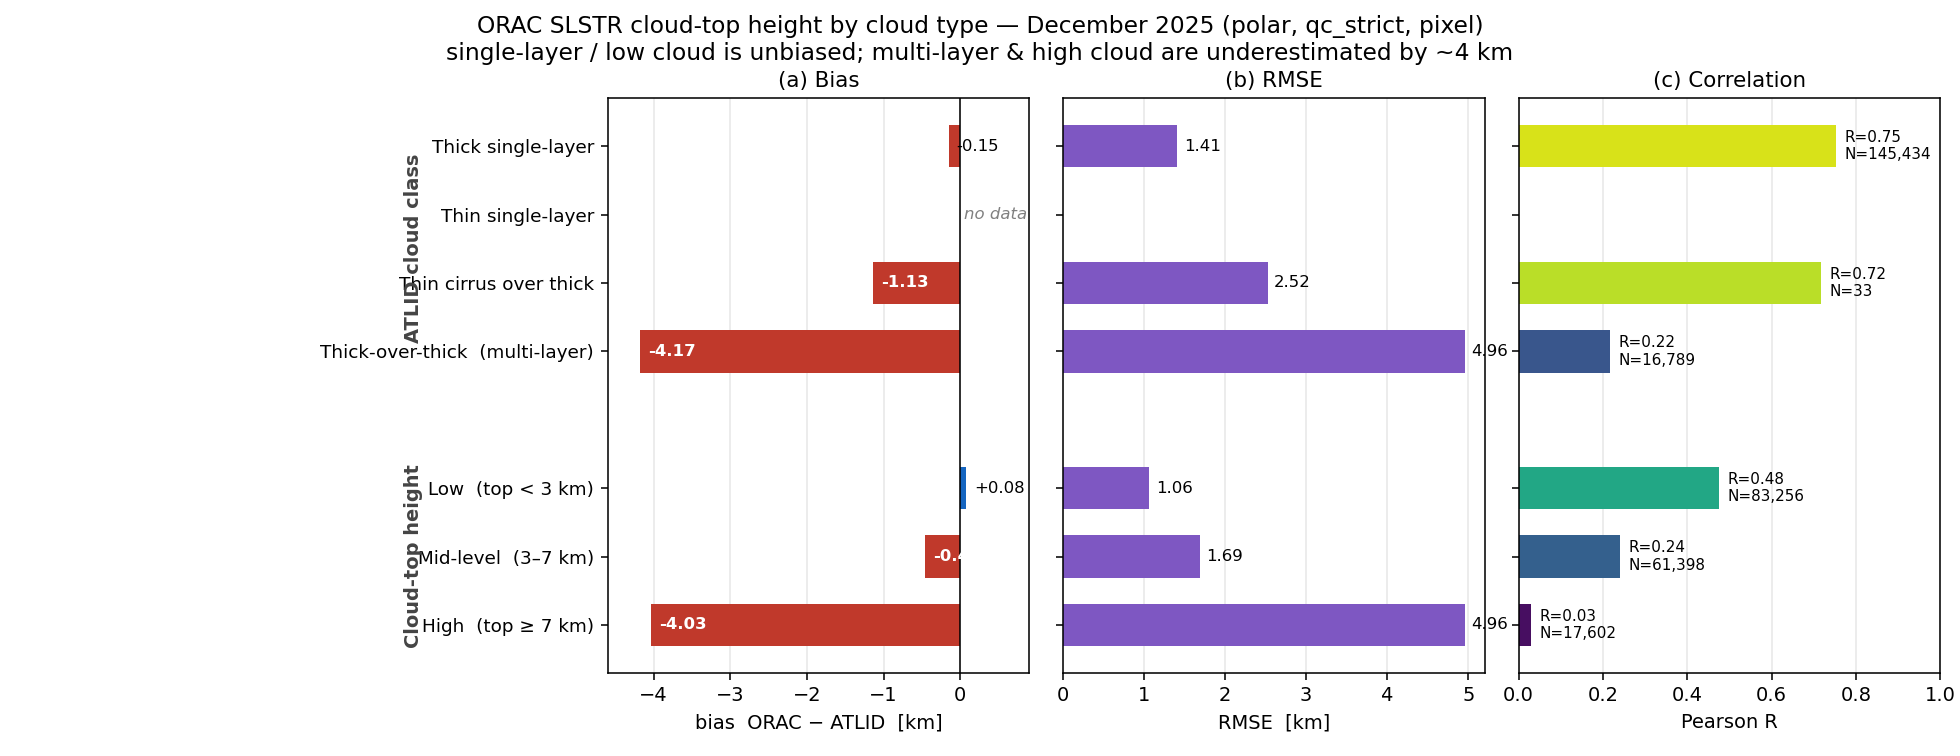
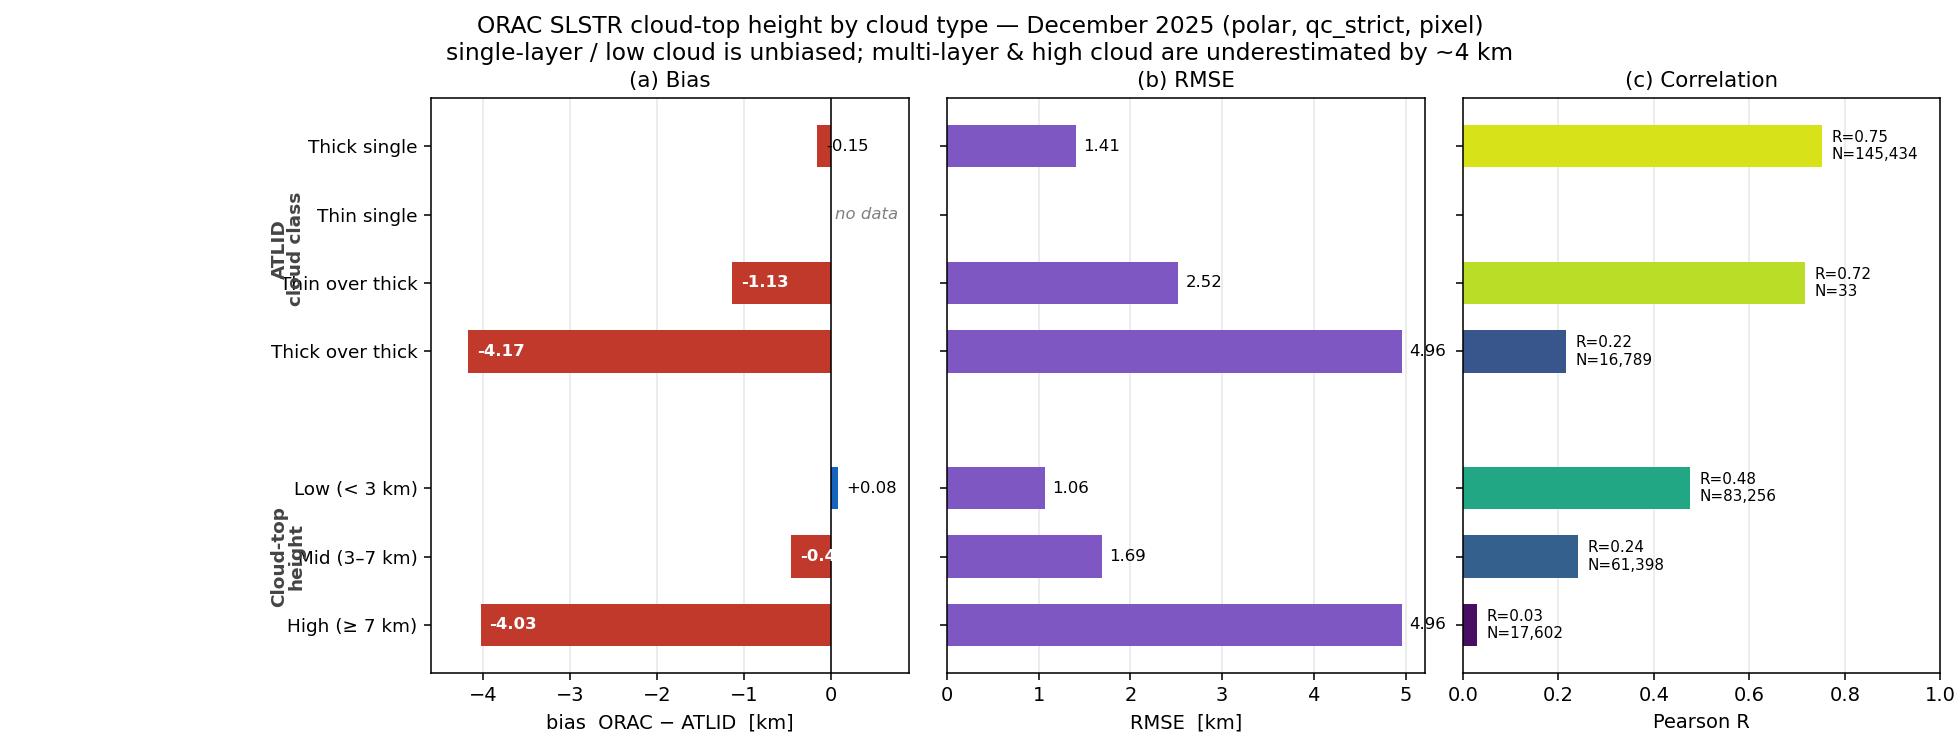
slstr(cth): fix cloud-type figure label overlap + explain high-cloud bias
- Shorten y-tick labels and use two-line group labels so the group names no
  longer overlap the cloud-type ticks.
- Add high-cloud explanation to the report: the >=7 km bin is ~50/50 multi-layer
  (lower-deck effect) and high thick single-layer (IR emission level below the
  lidar top + near-isothermal tropopause amplification).

diff --git a/scripts/slstr_cth_cloudtype_figure.py b/scripts/slstr_cth_cloudtype_figure.py
@@ -23,13 +23,13 @@ OUT = Path("figures/slstr_cth_2025-12")
 
 # (stratum key, full name, group). Order is bottom→top on the plot.
 ROWS = [
-    ("cth_high", "High  (top ≥ 7 km)",              "Cloud-top height"),
-    ("cth_mid",  "Mid-level  (3–7 km)",             "Cloud-top height"),
-    ("cth_low",  "Low  (top < 3 km)",               "Cloud-top height"),
-    ("class_thick_over_thick", "Thick-over-thick  (multi-layer)", "ATLID cloud class"),
-    ("class_thin_over_thick",  "Thin cirrus over thick",          "ATLID cloud class"),
-    ("class_thin",             "Thin single-layer",               "ATLID cloud class"),
-    ("class_thick",            "Thick single-layer",              "ATLID cloud class"),
+    ("cth_high", "High (≥ 7 km)",         "Cloud-top\nheight"),
+    ("cth_mid",  "Mid (3–7 km)",          "Cloud-top\nheight"),
+    ("cth_low",  "Low (< 3 km)",          "Cloud-top\nheight"),
+    ("class_thick_over_thick", "Thick over thick", "ATLID\ncloud class"),
+    ("class_thin_over_thick",  "Thin over thick",  "ATLID\ncloud class"),
+    ("class_thin",             "Thin single",      "ATLID\ncloud class"),
+    ("class_thick",            "Thick single",     "ATLID\ncloud class"),
 ]
 
 
@@ -105,18 +105,18 @@ def main() -> int:
     for a in ax:
         a.grid(axis="x", alpha=0.3, zorder=0)
 
-    # group labels in the far-left margin (clear of the tick labels)
+    # group labels in the far-left margin (clear of the — now short — tick labels)
     for grp in dict.fromkeys(groups):
         ys = [yy for yy, gg in zip(y, groups) if gg == grp]
-        ax[0].text(-0.46, np.mean(ys), grp, transform=ax[0].get_yaxis_transform(),
-                   rotation=90, va="center", ha="center", fontsize=10,
-                   fontweight="bold", color="#444")
+        ax[0].text(-0.30, np.mean(ys), grp, transform=ax[0].get_yaxis_transform(),
+                   rotation=90, va="center", ha="center", fontsize=9.5,
+                   fontweight="bold", color="#444", linespacing=0.9)
 
     fig.suptitle("ORAC SLSTR cloud-top height by cloud type — December 2025 "
                  "(polar, qc_strict, pixel)\n"
                  "single-layer / low cloud is unbiased; multi-layer & high cloud "
                  "are underestimated by ~4 km", fontsize=12)
-    fig.subplots_adjust(left=0.31, right=0.99, top=0.87, bottom=0.11, wspace=0.08)
+    fig.subplots_adjust(left=0.22, right=0.99, top=0.87, bottom=0.11, wspace=0.08)
     OUT.mkdir(parents=True, exist_ok=True)
     p = OUT / "cth_by_cloud_type.png"
     fig.savefig(p, dpi=140); plt.close(fig)

diff --git a/docs/reports/slstr_cth_2025-12.md b/docs/reports/slstr_cth_2025-12.md
@@ -159,6 +159,17 @@ locks onto the lower optically-thick top and misses the upper one, the classic
 passive-IR multi-layer ambiguity. This is not a polar or collocation effect
 (geometry strata are flat); it is intrinsic to passive cloud-top retrieval.
 
+**Why high cloud (≥ 7 km) is also −4 km.** The high-cloud bin is ~50/50 two
+populations, both underestimated (ORAC median 4.8 km vs ATLID 8.8 km): (i) ~48 %
+is thick-over-thick multi-layer — the lower-deck effect above; (ii) ~52 % is high
+*thick single-layer*, underestimated for a distinct reason — passive IR senses
+the level where the cloud reaches optical depth ≈ 1 from the top, which for high,
+cold, diffuse/cirrus-graded tops sits well below the lidar-detected geometric top,
+and near the low polar tropopause the (near-isothermal) temperature→height
+conversion amplifies the offset. Low stratus has a sharp opaque top and a steep
+lapse rate, so the same offset is negligible — which is why low cloud is unbiased
+while high cloud is not.
+
 ## 4. Figures
 
 All under `figures/slstr_cth_2025-12/` (full month) and
